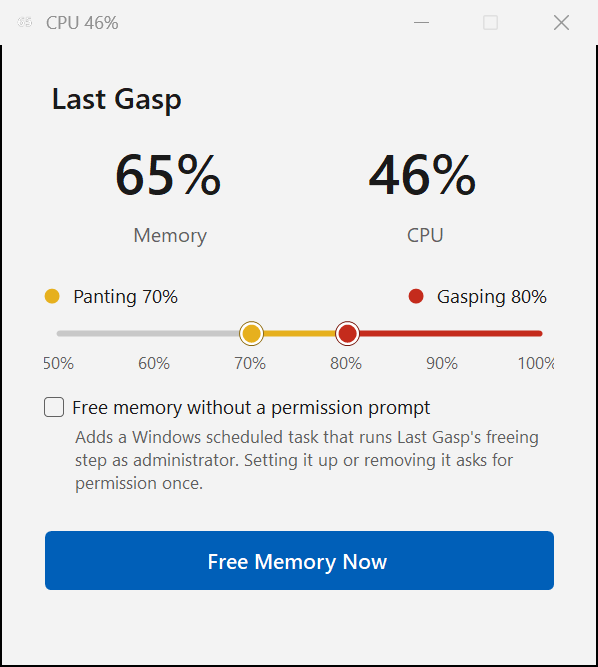
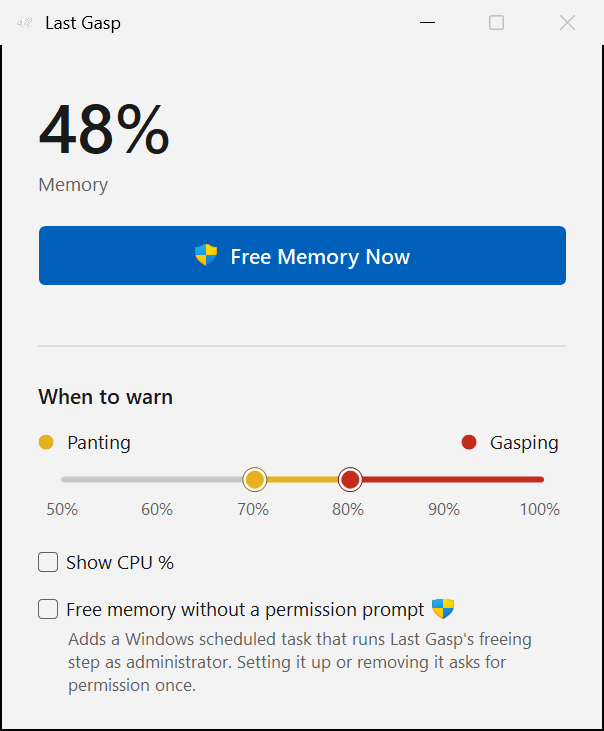
Add UAC shields and slider values, simplify freeing feedback, update README
- Windows' UAC shield follows the "Free memory without a permission prompt"
  checkbox's text, and appears on Free Memory Now while freeing will ask
  for permission.
- Each slider handle shows its current value above it. When the handles
  are close, the values push apart instead of overlapping.
- While freeing, the button reads "Freeing…" instead of a message
  appearing under it. Changing the permission option no longer leaves a
  message.
- README: new taskbar screenshots at 66%, 76% and 86% with the default
  "Last Gasp" label, a new window screenshot, and text for Show CPU % and
  the shield.

diff --git a/MainWindow.cs b/MainWindow.cs
@@ -74,6 +74,7 @@ internal sealed class MainWindow : Form
     {
         Text = "Free memory without a permission prompt",
         AutoSize = true,
+        TextImageRelation = TextImageRelation.TextBeforeImage,
         ForeColor = Palette.PrimaryText,
         Cursor = Cursors.Hand,
     };
@@ -237,7 +238,7 @@ internal sealed class MainWindow : Form
         _settingsHeading.Margin = new Padding(0, S(20), 0, 0);
 
         _thresholds.UiScale = _scale;
-        _thresholds.Height = S(66);
+        _thresholds.Height = S(86);
         _thresholds.Margin = new Padding(0, S(8), 0, 0);
 
         _showCpu.Font = UiFont(9.5f);
@@ -246,9 +247,18 @@ internal sealed class MainWindow : Form
         _skipPrompt.Font = UiFont(9.5f);
         _skipPrompt.Margin = new Padding(0, S(12), 0, 0);
 
-        // Line the note up with the checkbox's text, not its box.
+        // Line the note up with the checkbox's text, not its box. Measured before the shield
+        // is added after the text, so that the shield's width isn't counted.
+        _skipPrompt.Image = null;
         int indent = _skipPrompt.GetPreferredSize(Size.Empty).Width
             - TextRenderer.MeasureText(_skipPrompt.Text, _skipPrompt.Font).Width;
+
+        // The UAC shield marks the controls that ask for administrator permission.
+        _shield?.Dispose();
+        using (var shieldIcon = SystemIcons.GetStockIcon(StockIconId.Shield, S(16)))
+            _shield = new Bitmap(shieldIcon.ToBitmap(), S(16), S(16));
+        _skipPrompt.Image = _shield;
+        ShowShieldOnFreeButton();
         _skipPromptNote.Font = UiFont(8.5f);
         _skipPromptNote.Margin = new Padding(indent, S(2), 0, 0);
         _skipPromptNote.Height = TextRenderer.MeasureText(_skipPromptNote.Text, _skipPromptNote.Font,
@@ -257,6 +267,15 @@ internal sealed class MainWindow : Form
         _layout.ResumeLayout(true);
         ResumeLayout(true);
         FitWindowToContent();
+    }
+
+    private Bitmap? _shield;
+
+    // Freeing asks for permission unless the scheduled task is set up.
+    private void ShowShieldOnFreeButton()
+    {
+        _freeButton.Image = _settings.AskForAdmin ? _shield : null;
+        _freeButton.Invalidate();
     }
 
     private void FitWindowToContent()
@@ -308,7 +327,8 @@ internal sealed class MainWindow : Form
             return;
         _freeing = true;
         _freeButton.Enabled = false;
-        _freeStatus.Text = "Freeing memory…";
+        _freeButton.Text = "Freeing…";
+        _freeStatus.Text = "";
         Text = "Freeing…";
         try
         {
@@ -341,6 +361,7 @@ internal sealed class MainWindow : Form
         finally
         {
             _freeing = false;
+            _freeButton.Text = "Free Memory Now";
             _freeButton.Enabled = true;
             ShowReadings();
         }
@@ -376,7 +397,8 @@ internal sealed class MainWindow : Form
 
             _settings.AskForAdmin = ask;
             _settings.Save();
-            _freeStatus.Text = ask ? "Freeing will ask for permission each time" : "Freeing will no longer ask for permission";
+            ShowShieldOnFreeButton();
+            _freeStatus.Text = "";
         }
         catch (Exception ex)
         {

diff --git a/ThresholdSlider.cs b/ThresholdSlider.cs
@@ -64,7 +64,10 @@ internal sealed class ThresholdSlider : Control
         }
     }
     private float LegendHeight => 22 * DpiScale;
-    private float TrackY => LegendHeight + 14 * DpiScale;
+    private float ValueRowHeight => 18 * DpiScale;
+    private float TrackY => LegendHeight + 6 * DpiScale + ValueRowHeight + HandleRadius + 2 * DpiScale;
+
+    private Font ValueFont() => new("Segoe UI Semibold", 8.5f * 96f / 72f * DpiScale, GraphicsUnit.Pixel);
 
     private float XFor(int percent) => Inset + (Width - 2 * Inset) * (percent - Min) / (Max - Min);
 
@@ -81,6 +84,8 @@ internal sealed class ThresholdSlider : Control
         using var legendFont = LegendFont();
         DrawLegend(g, legendFont, "Panting", Palette.Panting, alignRight: false);
         DrawLegend(g, legendFont, "Gasping", Palette.Gasping, alignRight: true);
+
+        DrawValues(g);
 
         // Track: grey below Panting, yellow from Panting to Gasping, red from Gasping up.
         float thickness = 4 * DpiScale;
@@ -99,6 +104,45 @@ internal sealed class ThresholdSlider : Control
 
         DrawHandle(g, Panting, Palette.Panting);
         DrawHandle(g, Gasping, Palette.Gasping);
+    }
+
+    // Each handle's value, centred above it. When the handles are close, the two values are
+    // pushed apart so they touch instead of overlapping, and both stay inside the control.
+    private void DrawValues(Graphics g)
+    {
+        using var font = ValueFont();
+        var flags = TextFormatFlags.NoPadding | TextFormatFlags.SingleLine;
+        string pantingText = $"{Panting}%", gaspingText = $"{Gasping}%";
+        int pantingWidth = TextRenderer.MeasureText(g, pantingText, font, Size.Empty, flags).Width;
+        int gaspingWidth = TextRenderer.MeasureText(g, gaspingText, font, Size.Empty, flags).Width;
+        float gap = 4 * DpiScale;
+
+        float pantingLeft = XFor(Panting) - pantingWidth / 2f;
+        float gaspingLeft = XFor(Gasping) - gaspingWidth / 2f;
+        float overlap = pantingLeft + pantingWidth + gap - gaspingLeft;
+        if (overlap > 0)
+        {
+            pantingLeft -= overlap / 2;
+            gaspingLeft += overlap / 2;
+        }
+        // Keep both inside the control, moving the other along if one hits an edge.
+        if (pantingLeft < 0)
+        {
+            gaspingLeft = Math.Max(gaspingLeft, pantingWidth + gap);
+            pantingLeft = 0;
+        }
+        if (gaspingLeft + gaspingWidth > Width)
+        {
+            gaspingLeft = Width - gaspingWidth;
+            pantingLeft = Math.Min(pantingLeft, gaspingLeft - gap - pantingWidth);
+        }
+
+        int top = (int)(LegendHeight + 6 * DpiScale);
+        int height = (int)ValueRowHeight;
+        TextRenderer.DrawText(g, pantingText, font, new Rectangle((int)pantingLeft, top, pantingWidth, height),
+            Palette.PantingText, flags | TextFormatFlags.Bottom);
+        TextRenderer.DrawText(g, gaspingText, font, new Rectangle((int)gaspingLeft, top, gaspingWidth, height),
+            Palette.Gasping, flags | TextFormatFlags.Bottom);
     }
 
     private void DrawLegend(Graphics g, Font font, string text, Color color, bool alignRight)

diff --git a/RoundedButton.cs b/RoundedButton.cs
@@ -54,7 +54,15 @@ internal sealed class RoundedButton : Button
             g.FillPath(brush, path);
         }
 
-        TextRenderer.DrawText(g, Text, Font, ClientRectangle, ForeColor,
-            TextFormatFlags.HorizontalCenter | TextFormatFlags.VerticalCenter | TextFormatFlags.SingleLine);
+        // The image, if any, sits before the text, and the two are centred together.
+        var flags = TextFormatFlags.NoPadding | TextFormatFlags.VerticalCenter | TextFormatFlags.SingleLine;
+        int textWidth = TextRenderer.MeasureText(g, Text, Font, Size, flags).Width;
+        int gap = Image == null ? 0 : Image.Width / 2;
+        int imageWidth = Image?.Width ?? 0;
+        int left = (Width - imageWidth - gap - textWidth) / 2;
+        if (Image != null)
+            g.DrawImage(Image, left, (Height - Image.Height) / 2, Image.Width, Image.Height);
+        TextRenderer.DrawText(g, Text, Font,
+            new Rectangle(left + imageWidth + gap, 0, textWidth, Height), ForeColor, flags);
     }
 }

diff --git a/README.md b/README.md
@@ -4,13 +4,13 @@ Last Gasp sits on your Windows taskbar and shows how much of your computer's mem
 
 ## On the taskbar
 
-The number on the icon is the percentage of memory in use. The label next to it shows how busy the processor is, the same figure that Task Manager shows.
+The number on the icon is the percentage of memory in use. The label next to it reads "Last Gasp", or shows how busy the processor is if you turn on **Show CPU %** in the window.
 
 | Taskbar button | What it means |
 |---|---|
-| ![Last Gasp's taskbar button with a plain icon showing 66 and the label "CPU 48%"](docs/images/taskbar-normal.png) | **Normal.** Memory use is below your Panting level. |
-| ![Last Gasp's taskbar button with a yellow icon showing 76 and the label "CPU 48%"](docs/images/taskbar-panting.png) | **Panting.** Memory use has reached your Panting level, so the icon turns yellow. |
-| ![Last Gasp's taskbar button with a red icon showing 85 and the label "Free Now"](docs/images/taskbar-gasping.png) | **Gasping.** Memory use has reached your Gasping level. The icon turns red and the label reads "Free Now". Click the button to free memory straight away, without opening a window. |
+| ![Last Gasp's taskbar button with a plain icon showing 66 and the label "Last Gasp"](docs/images/taskbar-normal.png) | **Normal.** Memory use is below your Panting level. |
+| ![Last Gasp's taskbar button with a yellow icon showing 76 and the label "Last Gasp"](docs/images/taskbar-panting.png) | **Panting.** Memory use has reached your Panting level, so the icon turns yellow. |
+| ![Last Gasp's taskbar button with a red icon showing 86 and the label "Free Now"](docs/images/taskbar-gasping.png) | **Gasping.** Memory use has reached your Gasping level. The icon turns red and the label reads "Free Now". Click the button to free memory straight away, without opening a window. |
 
 To see the label, Windows has to show labels on taskbar buttons. In Windows 11, open **Settings**, go to **Personalization > Taskbar > Taskbar behaviors**, and set **Combine taskbar buttons and hide labels** to **Never**. Without labels you still see the icon.
 
@@ -18,11 +18,13 @@ To see the label, Windows has to show labels on taskbar buttons. In Windows 11, 
 
 Click the taskbar button when memory isn't at the Gasping level to open Last Gasp's window.
 
-![Last Gasp's window, showing memory and CPU use, the Panting and Gasping levels, and the Free Memory Now button](docs/images/main-window.png)
+![Last Gasp's window, showing memory use, the Free Memory Now button, the Panting and Gasping levels, and two options](docs/images/main-window.png)
 
-- **Memory and CPU** show the current figures. The memory figure turns yellow or red to match the icon.
-- **Panting and Gasping** set the levels at which the icon changes colour. Drag the yellow handle to set Panting and the red handle to set Gasping, anywhere from 50% to 100%. Last Gasp remembers them.
-- **Free Memory Now** frees memory, whatever the current level.
+- **Memory** shows the current figure. It turns yellow or red to match the icon.
+- **Free Memory Now** frees memory, whatever the current level. The shield on it means Windows will ask your permission.
+- **When to warn** sets the levels at which the icon changes colour. Drag the yellow handle to set Panting and the red handle to set Gasping, anywhere from 50% to 100%. Last Gasp remembers them.
+- **Show CPU %** shows how busy the processor is, in the window and on the taskbar label.
+- **Free memory without a permission prompt** is explained below.
 
 ## Freeing memory
 
@@ -30,7 +32,7 @@ Freeing memory asks Windows to take back memory that programs have set aside but
 
 Windows only lets an administrator do this, so by default Windows asks your permission each time you free memory.
 
-If you'd rather not be asked every time, tick **Free memory without a permission prompt**. Last Gasp then sets up a Windows scheduled task that frees memory as administrator, and Windows asks your permission just once, to set it up. Untick the box to remove the task again, which also asks once. Bear in mind that while the task exists, a harmful program running under your account could replace Last Gasp with itself and have Windows run it as administrator without asking. Only tick the box on a computer where you trust what you run.
+If you'd rather not be asked every time, tick **Free memory without a permission prompt**, and the shield disappears from the button. Last Gasp then sets up a Windows scheduled task that frees memory as administrator, and Windows asks your permission just once, to set it up. Untick the box to remove the task again, which also asks once. Bear in mind that while the task exists, a harmful program running under your account could replace Last Gasp with itself and have Windows run it as administrator without asking. Only tick the box on a computer where you trust what you run.
 
 ## Requirements
 
